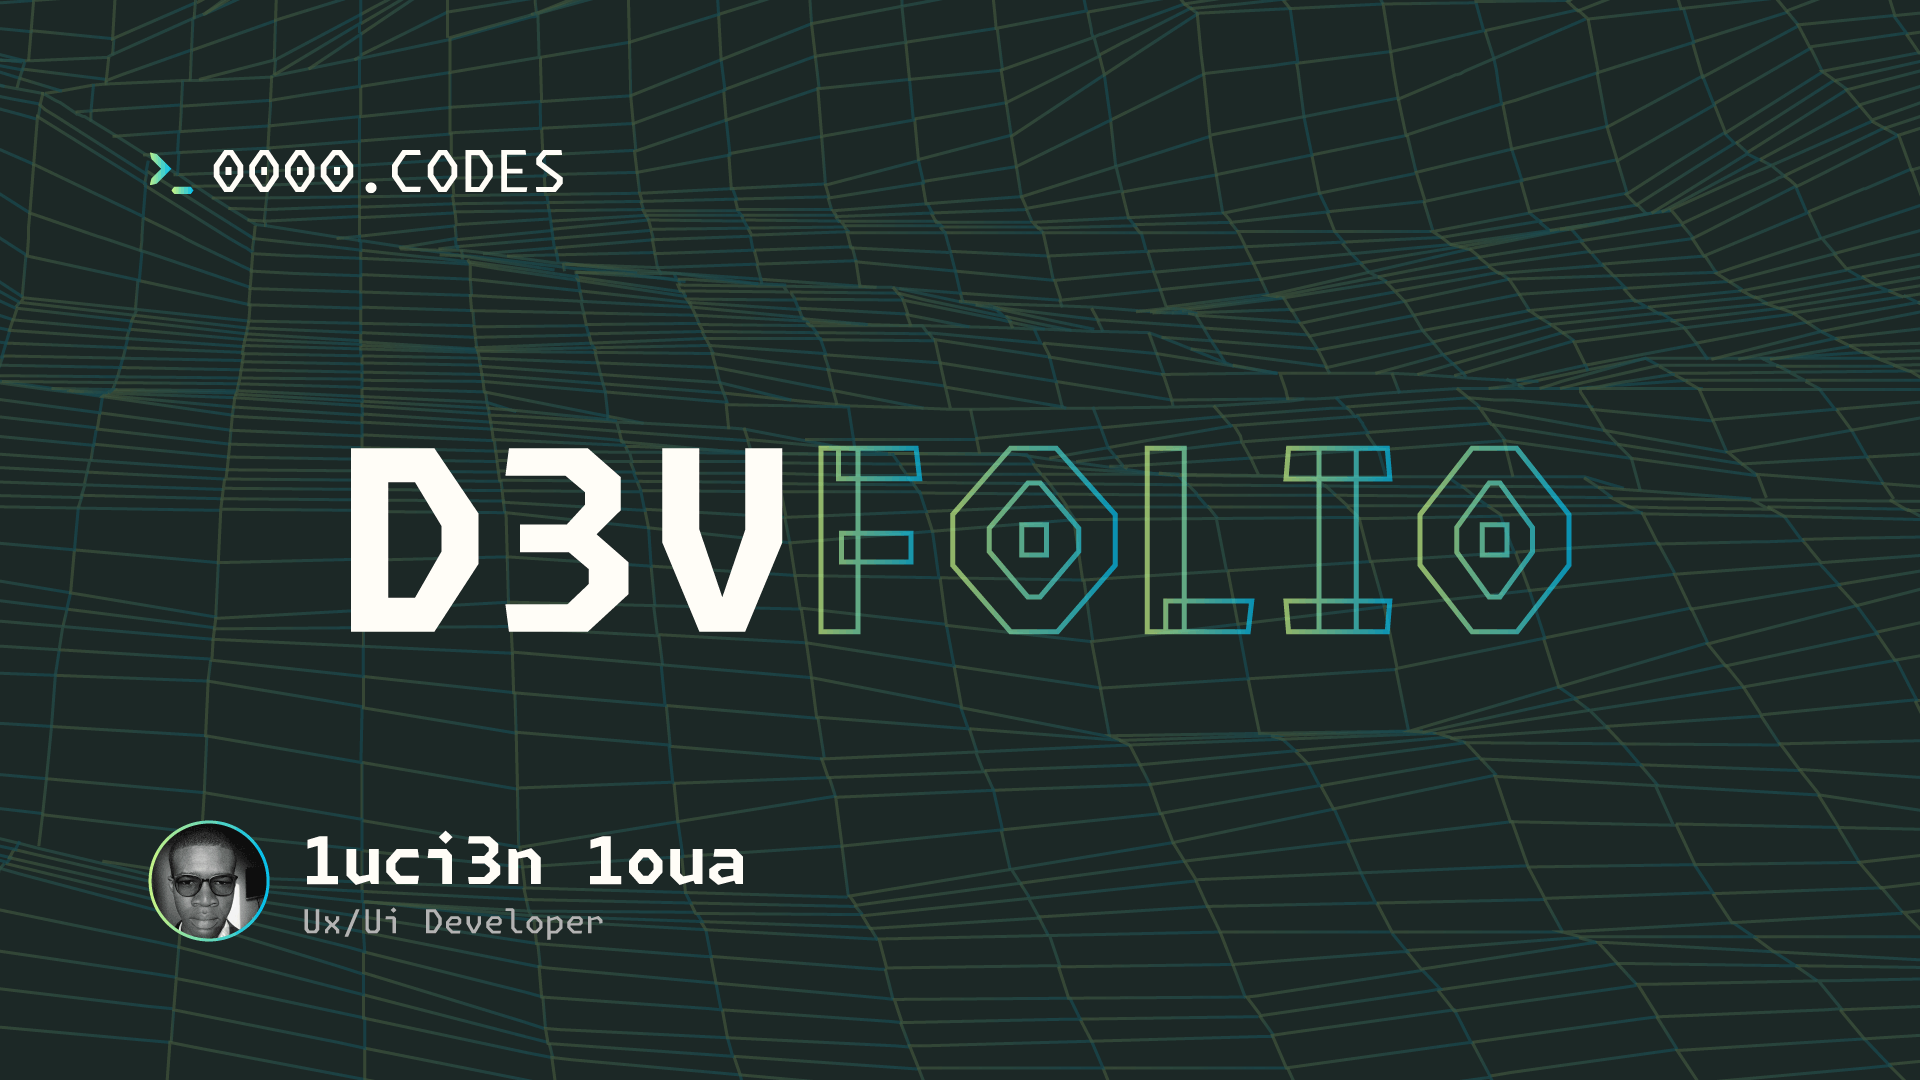
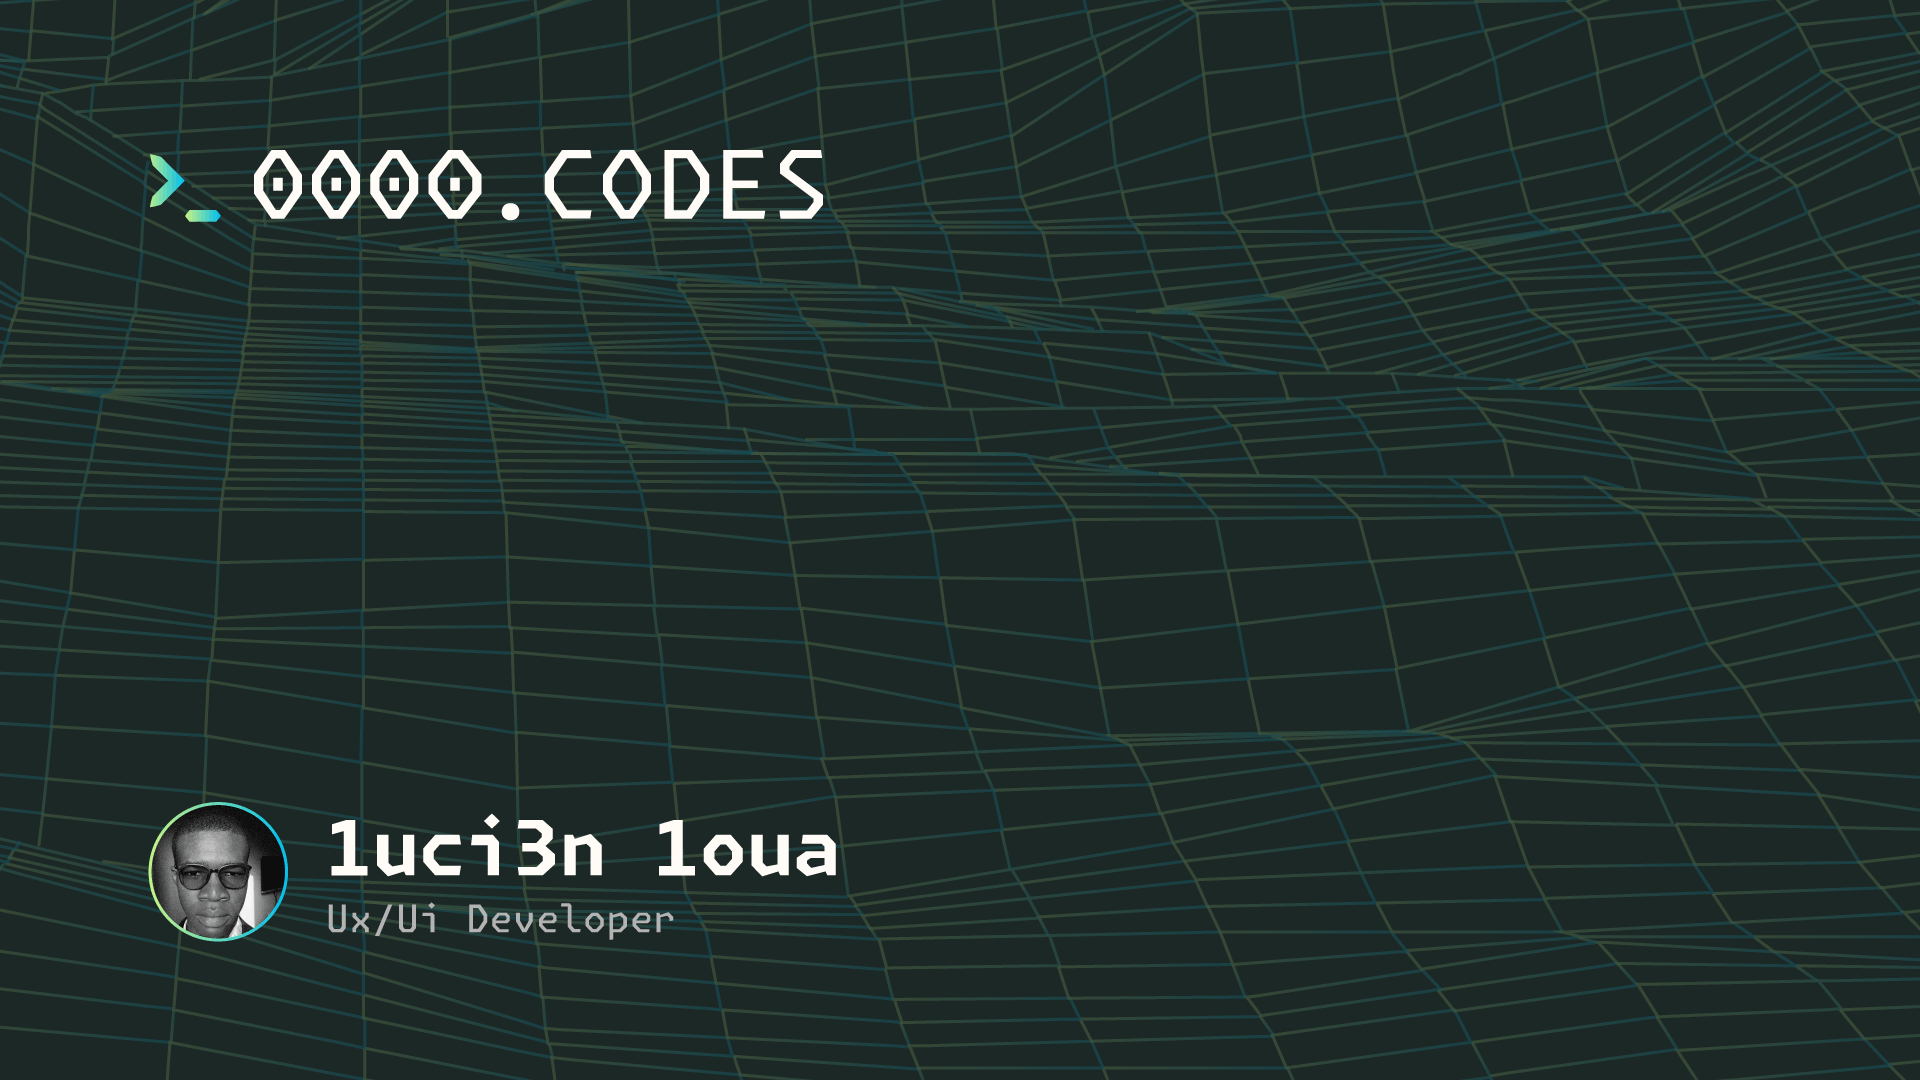
fix opengraph

Changed region(s): [[0.1562, 0.3972, 0.8125, 0.6111], [0.0625, 0.7333, 0.4375, 0.8861], [0.0625, 0.1222, 0.4375, 0.2139]]

diff --git a/src/app/guest-book/page.tsx b/src/app/guest-book/page.tsx
@@ -70,77 +70,3 @@ export default async function GuestBooks() {
     </FadeIn>
   )
 }
-
-// import { RemoveBtn, SendBtn, SignInBtn } from './action-buttons'
-
-// import { FadeIn } from '@/components/atoms/fade-in'
-// import { Input } from '@/components/atoms/input'
-// import { createPost } from '@/lib/actions'
-// import db from '@/lib/prisma'
-// import { getAuth } from '@/lib/auth'
-
-// export default async function GuestBooks() {
-//   const session = await getAuth()
-//   const posts = await db.post.findMany({
-//     include: {
-//       user: true
-//     },
-//     orderBy: {
-//       createdAt: 'desc'
-//     }
-//   })
-
-//   return (
-//     <FadeIn className='p-5 space-y-2'>
-//       <form action={createPost} className='col-span-full flex items-center justify-between gap-x-2.5'>
-//         <div className='flex-1 relative'>
-//           <Input name='desc' id='desc' placeholder='This is really cool!' aria-labelledby='desc' />
-//         </div>
-//         {!session ? <SignInBtn /> : <SendBtn />}
-//       </form>
-
-//       <article className='divide-y lg:divide-y-0'>
-//         {posts.map((item, i) => (
-//           <pre className='flex lg:flex-row flex-col items-start gap-x-2 py-2 lg:py-0 md:!text-sm text-xs' key={i}>
-//             <code className='text-muted-foreground lg:w-36 truncate shrink-0 flex items-center justify-between w-full gap-x-2'>
-//               {item.user.name}
-//               <code className='text-muted-foreground shrink-0 flex items-center justify-center gap-x-2 lg:hidden'>
-//                 {session?.user?.id === item.user.id && <RemoveBtn id={item.id} />}
-//                 <code>
-//                   {item.createdAt
-//                     .toLocaleString('en-US', {
-//                       year: 'numeric',
-//                       month: '2-digit',
-//                       day: '2-digit',
-//                       hour: '2-digit',
-//                       minute: '2-digit'
-//                     })
-//                     .replace(',', '')
-//                     .replace(/\//g, '-')}
-//                 </code>
-//               </code>
-//             </code>
-//             <code className='hidden lg:block'>:</code>
-//             <code className='flex-1 whitespace-pre-line'>{item.desc}</code>
-//             <code className='text-muted-foreground shrink-0 lg:flex hidden items-center justify-center gap-x-2'>
-//               {session?.user?.id === item.user.id && <RemoveBtn id={item.id} />}
-//               <code>
-//                 {item.createdAt
-//                   .toLocaleString('en-US', {
-//                     year: 'numeric',
-//                     month: '2-digit',
-//                     day: '2-digit',
-//                     hour: '2-digit',
-//                     minute: '2-digit'
-//                   })
-//                   .replace(',', '')
-//                   .replace(/\//g, '-')}
-//               </code>
-//             </code>
-//           </pre>
-//         ))}
-//       </article>
-//     </FadeIn>
-//   )
-// }
-

diff --git a/src/app/layout.tsx b/src/app/layout.tsx
@@ -22,14 +22,14 @@ export const metadata: Metadata = {
     icon: '/favicon.svg',
   },
   description:
-    "Get to know me, 1uci3n 1oua, through this devfolio! I'm a passionate Ux/Ui developer and sound designer. Explore my interactive projects, clean portfolio, and a glimpse into my technical expertise. If you're seeking a Ux/Ui developer for your next project or simply looking for inspiration, feel free to get in touch!",
+    "Explore my interactive devfolio, and a glimpse into my technical expertise. If you're seeking a Ux/Ui developer for your next project, feel free to get in touch!",
   openGraph: {
-    title: 'D3vfo1io',
+    title: 'D3vfo1io | 1ucien 1oua',
     description:
-      "Get to know me, 1uci3n 1oua, through this devfolio! I'm a passionate Ux/Ui developer and sound designer. Explore my interactive projects, clean portfolio, and a glimpse into my technical expertise. If you're seeking a Ux/Ui developer for your next project or simply looking for inspiration, feel free to get in touch!",
+    "Explore my interactive devfolio, and a glimpse into my technical expertise. If you're seeking a Ux/Ui developer for your next project, feel free to get in touch!",
     url: ENV.NEXT_PUBLIC_WEBSITE_URL,
-    siteName: 'D3vfo1io',
-    locale: 'fr_FR',
+    siteName: 'Devfolio',
+    locale: 'en_EN',
     type: 'website'
   },
   robots: {
@@ -44,7 +44,7 @@ export const metadata: Metadata = {
     }
   },
   twitter: {
-    title: 'D3vfo1io',
+    title: 'D3vfo1io | 1ucien 1oua',
     card: 'summary_large_image'
   },
   verification: {
@@ -67,10 +67,7 @@ export default function RootLayout({ children }: { children: React.ReactNode }) 
           </main>
         </ThemeWrapper>
         {process.env.NODE_ENV === 'production' && (
-          <>
-
             <SpeedInsights />
-          </>
         )}
       </body>
       <ResponsiveIndicator />

diff --git a/src/components/organisms/navbar-mobile.tsx b/src/components/organisms/navbar-mobile.tsx
@@ -159,20 +159,12 @@ export const navMenu = [
         path: 'mailto:loua@0000.codes'
       },
       {
-        name: 'Upwork',
-        path: 'https://www.upwork.com/freelancers/~01df34d78e05fa69bf'
-      },
-      {
-        name: 'WhatsApp',
-        path: 'https://wa.me/+6287885002327'
-      },
-      {
         name: 'LinkedIn',
-        path: 'https://www.linkedin.com/in/wiscaksono/'
+        path: 'https://www.linkedin.com/in/lucien-loua/'
       },
       {
-        name: 'Instagram',
-        path: 'https://www.instagram.com/amachoker/'
+        name: 'X',
+        path: 'https://www.x.com/xyhomi3/'
       }
     ]
   }
